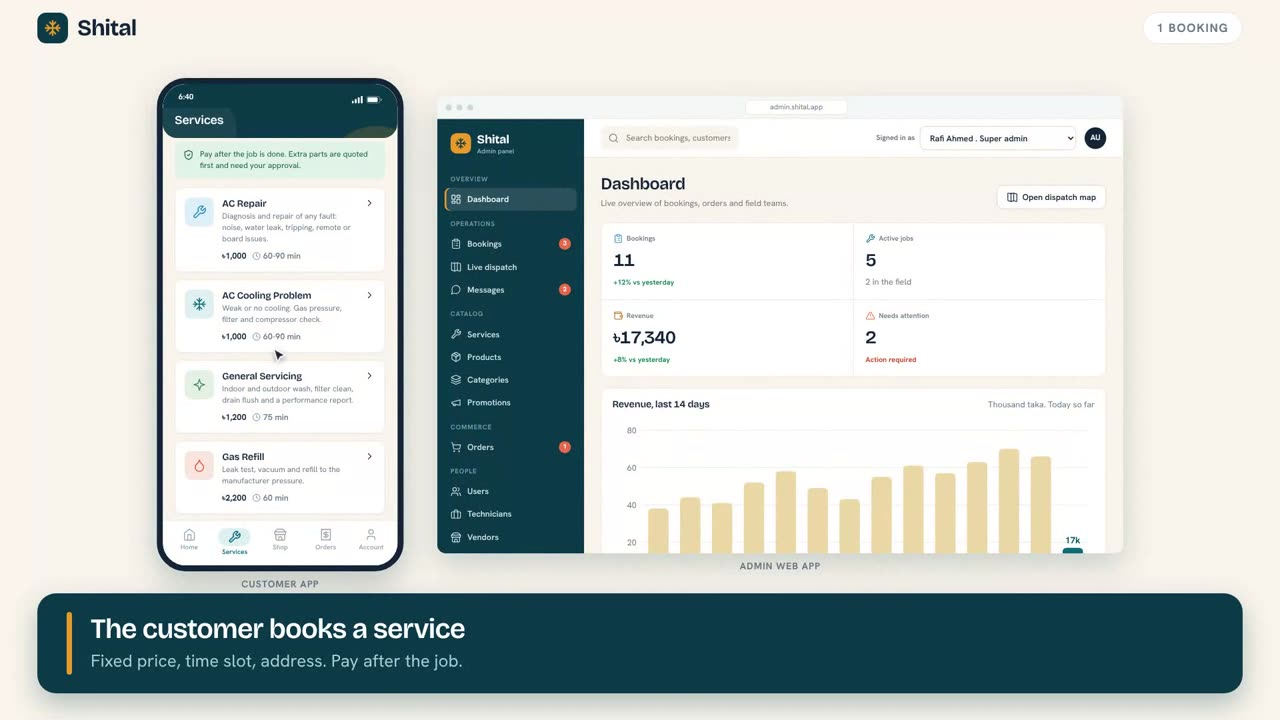
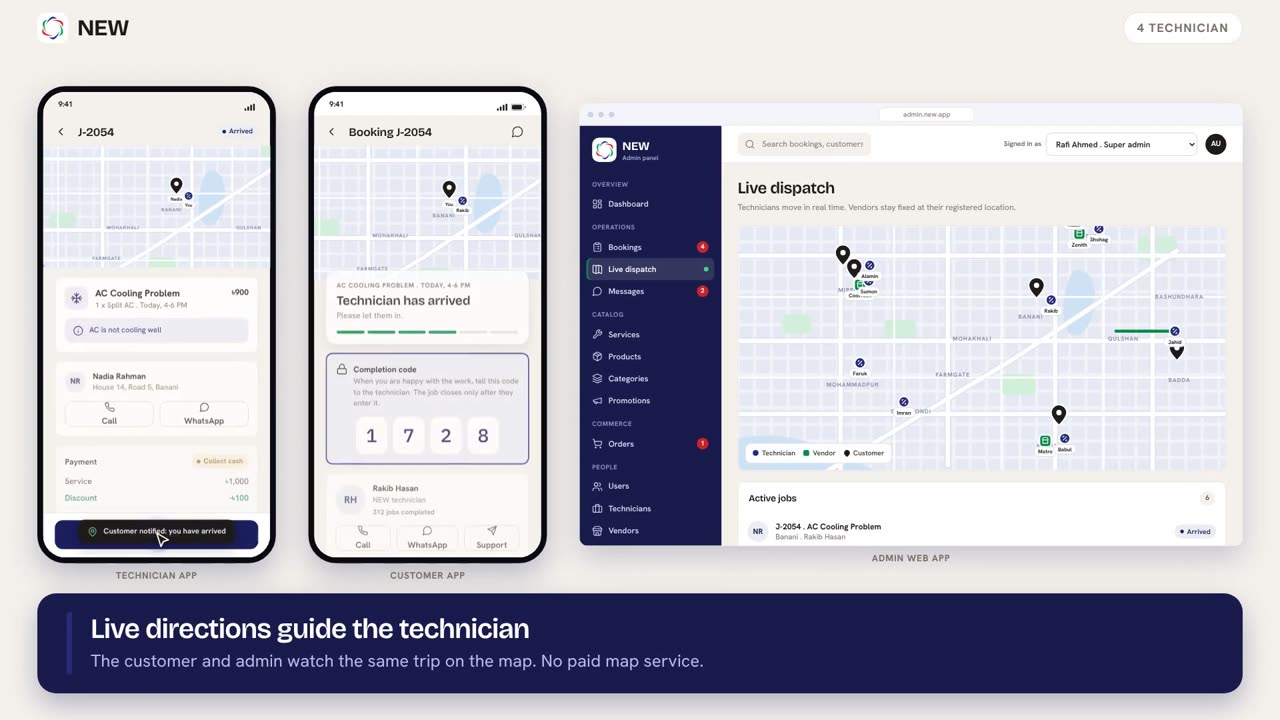
Vercel config: static output from prototype, build copies plan and the new walkthrough video; hub shows the new video

diff --git a/prototype/index.html b/prototype/index.html
@@ -103,8 +103,7 @@ html, body { height: auto; } body { overflow-x: hidden; }
 <section class="w sec" id="videos">
   <span class="eyebrow">Watch</span><h2>Two videos made from the real apps</h2>
   <p class="intro">A full walkthrough for presenting to the client, and a vertical ad for social media. Both were recorded before the NEW rebrand and will be re-recorded once the design is approved. Voice-over scripts for ElevenLabs are in the repository.</p>
-  <div class="vids"><figure><video controls preload="none" poster="video/walk-poster.jpg" src="video/walkthrough.mp4"></video><figcaption><b>Client walkthrough</b><span>4 minutes. Booking, dispatch, live directions, extra work, completion code, wallet, vendors, shop, roles.</span></figcaption></figure>
-  <figure class="tall"><video controls preload="none" poster="video/ad-poster.jpg" src="video/ad.mp4"></video><figcaption><b>Marketing ad</b><span>66 seconds, vertical. Add the voice-over from the script.</span></figcaption></figure></div>
+  <div class="vids"><figure><video controls preload="none" poster="video/walk-poster.jpg" src="video/walkthrough.mp4"></video><figcaption><b>Client walkthrough</b><span>7 minutes. The customer app, booking and OTP, dispatch, live directions, extra work, completion code, wallet, vendors, the shop and courier, every admin module and every staff role.</span></figcaption></figure></div>
 </section>
 
 <section class="w sec" id="flow">
